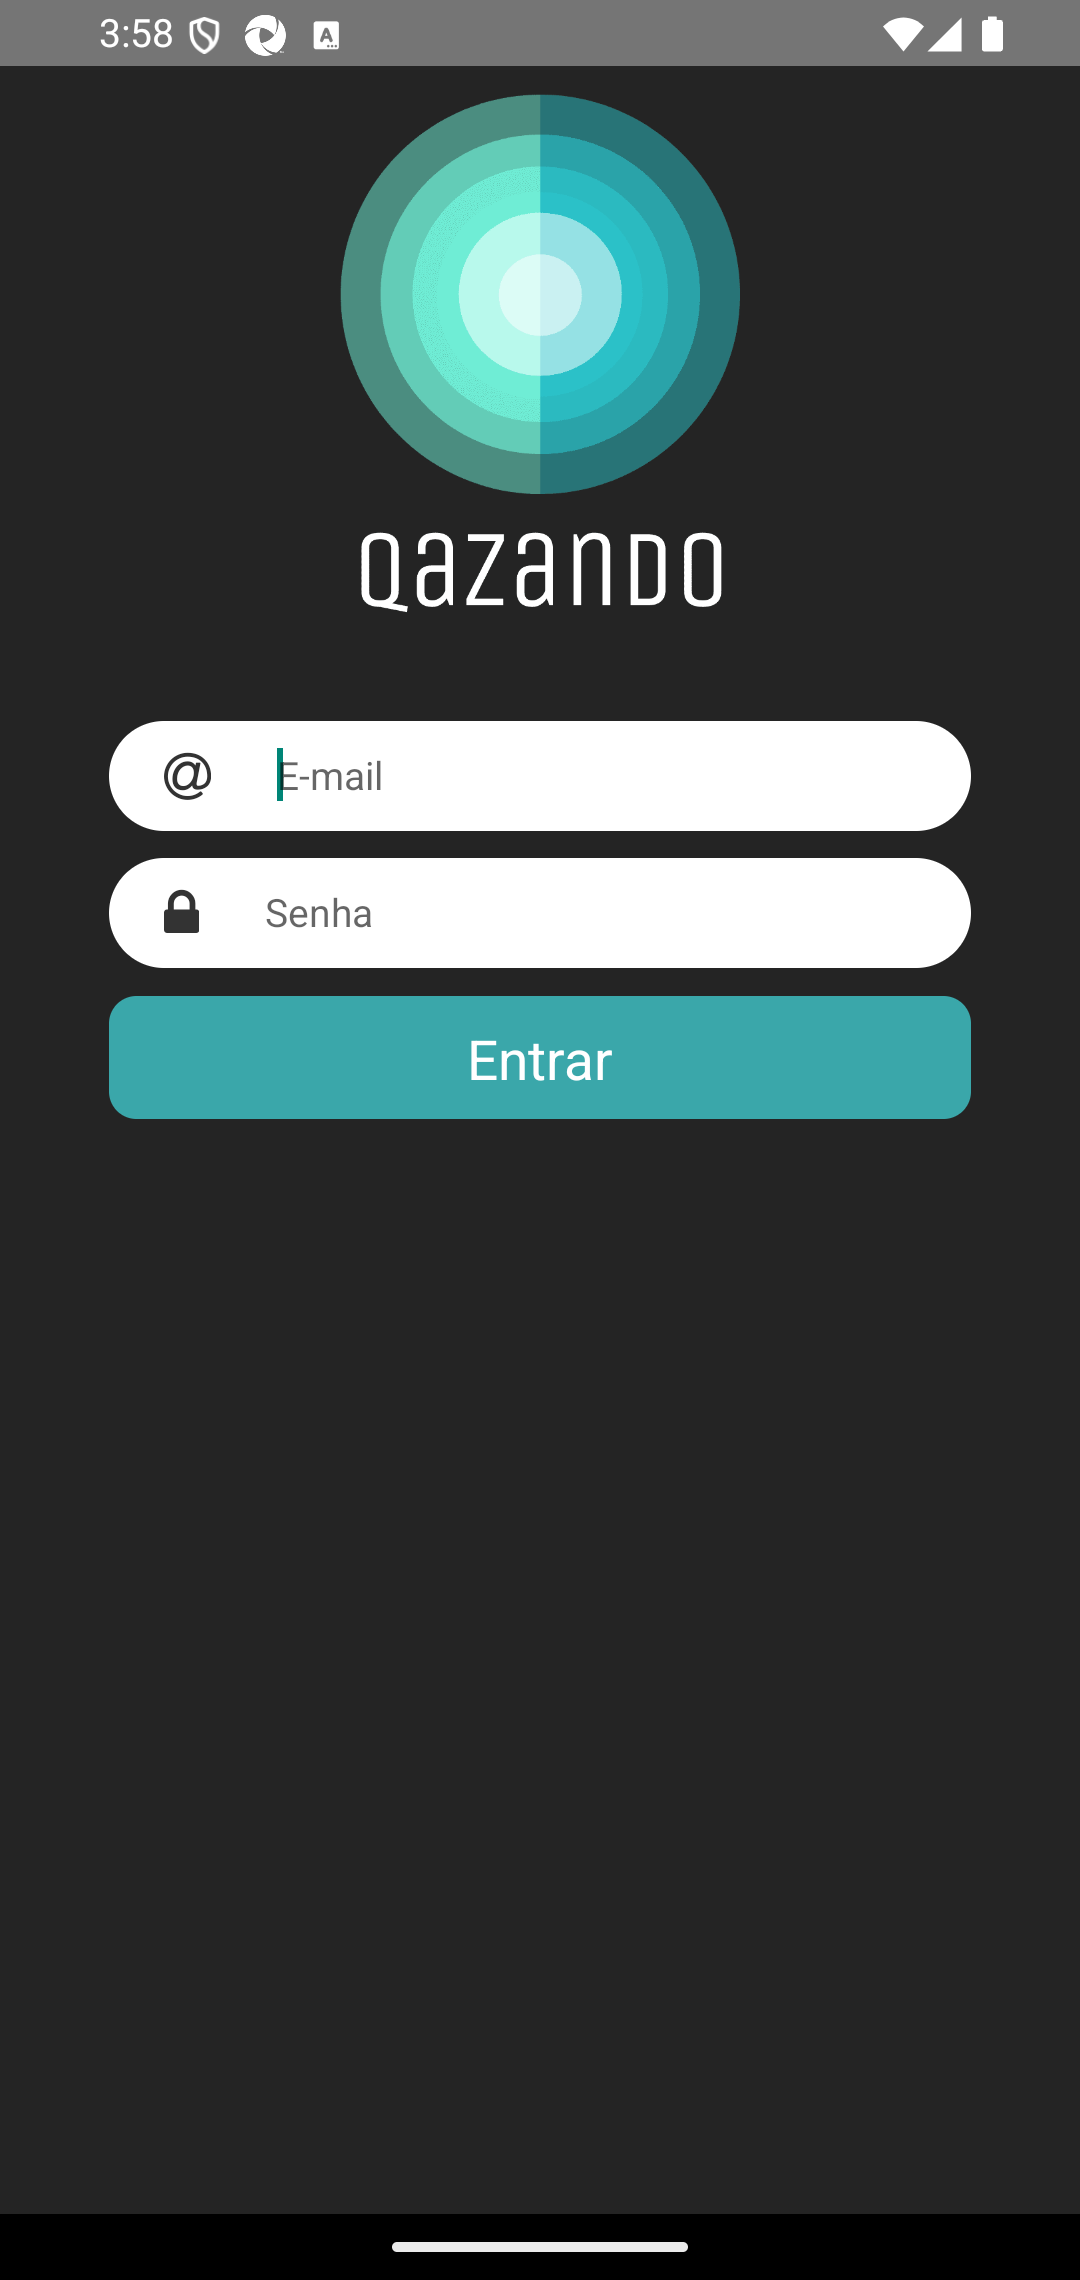
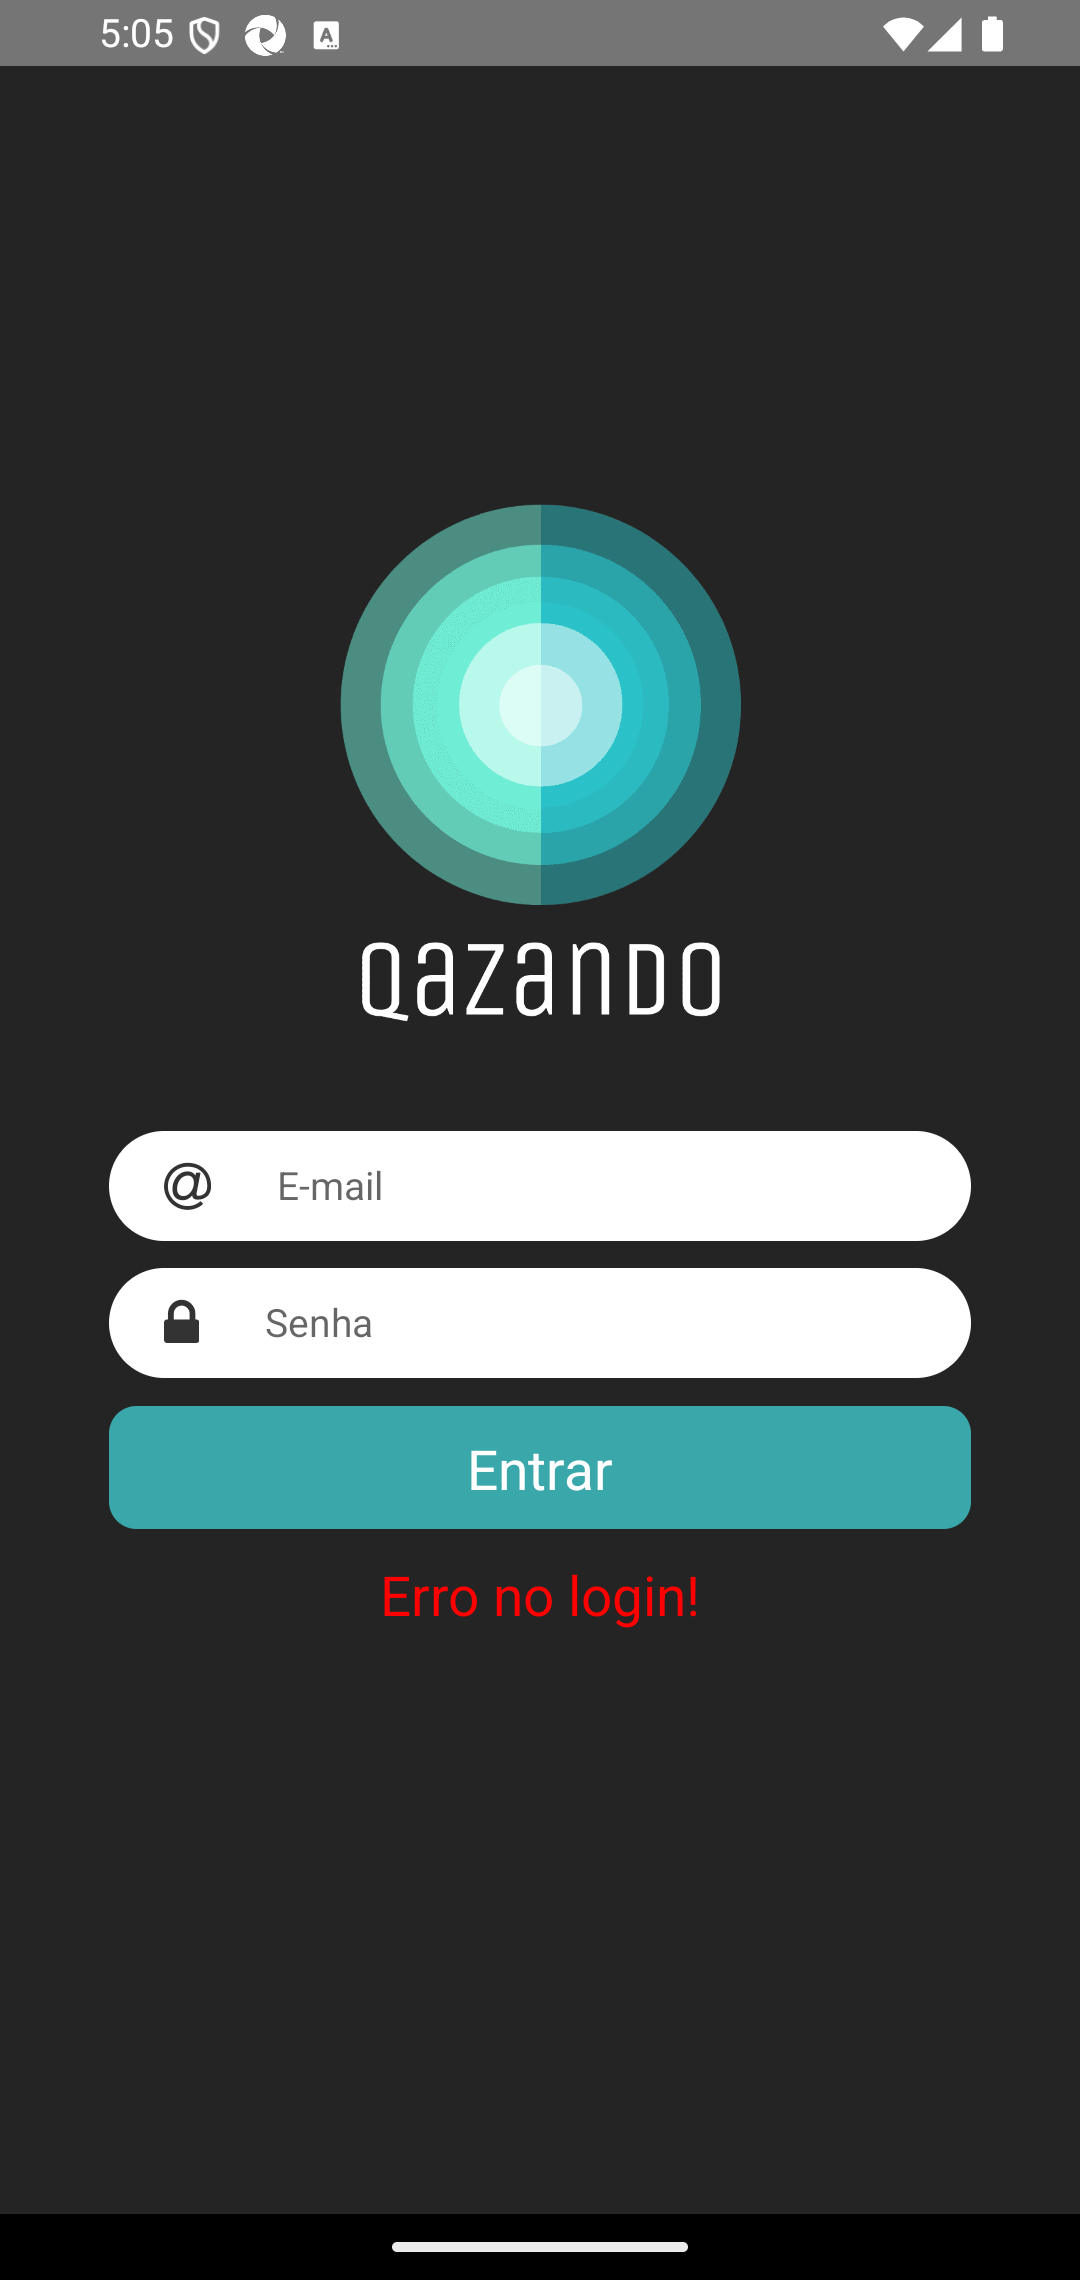
Page objects

diff --git a/codecept.conf.js b/codecept.conf.js
@@ -1,4 +1,7 @@
-const { setHeadlessWhen, setCommonPlugins } = require('@codeceptjs/configure');
+const {
+  setHeadlessWhen,
+  setCommonPlugins
+} = require('@codeceptjs/configure');
 
 setHeadlessWhen(process.env.HEADLESS);
 
@@ -15,24 +18,26 @@ exports.config = {
       port: 4723,
       path: '/',
       desiredCapabilities: {
-        'platformName':                process.env.PLATAFORM,
-        'appium:platformVersion':      process.env.VERSION,
-        'appium:deviceName':           process.env.DEVICE,
-        'appium:udid':                 process.env.UDID,
-        'appium:automationName':       process.env.AUTOMATION,
-        'appium:app':                  process.env.APP,
-        'appium:appPackage':           process.env.PLATAFORM == 'Android' ? process.env.PACKAGE : '',
-        'appium:appActivity':          process.env.PLATAFORM == 'Android' ? process.env.ACTIVITY : '',
-        'appium:bundleId':             process.env.PLATAFORM == 'iOS' ? process.env.BUNDLE : '',
-        'appium:noReset':              false,
-        'appium:fullReset':            false,
-        'appium:newCommandTimeout':    300,
+        'platformName': process.env.PLATAFORM,
+        'appium:platformVersion': process.env.VERSION,
+        'appium:deviceName': process.env.DEVICE,
+        'appium:udid': process.env.UDID,
+        'appium:automationName': process.env.AUTOMATION,
+        'appium:app': process.env.APP,
+        'appium:appPackage': process.env.PLATAFORM == 'Android' ? process.env.PACKAGE : '',
+        'appium:appActivity': process.env.PLATAFORM == 'Android' ? process.env.ACTIVITY : '',
+        'appium:bundleId': process.env.PLATAFORM == 'iOS' ? process.env.BUNDLE : '',
+        'appium:noReset': false,
+        'appium:fullReset': false,
+        'appium:newCommandTimeout': 300,
         'appium:autoGrantPermissions': true,
       }
     }
   },
   include: {
-    I: './steps_file.js'
+    I: './steps_file.js',
+
+    loginPages: "./pages/loginPages.js",
   },
   noGlobals: true,
   plugins: {},

diff --git a/tests/CT001 - login_test.js b/tests/CT001 - login_test.js
@@ -1,0 +1,31 @@
+Feature('CT001 - login_test');
+
+Scenario('Cenário 01 - Preenchimento correto de e-mail e senha deve realizar login com sucesso', ({ I, loginPages }) => {
+    
+    loginPages
+
+    // Validar login com sucesso
+    I.waitForElement('~codigo', 10);
+    I.seeElement('~codigo')
+});
+
+Scenario('Cenário 02 - Preenchimento de e-mail inexistente deve exibir mensagem de erro ', ({ I }) => {
+    
+    // Preencher campo e-mail
+    I.waitForElement('~email', 5);
+    I.tap('~email');
+    I.hideDeviceKeyboard();
+
+    // Preencher campo senha
+    I.waitForElement('~senha', 5);
+    I.tap('~senha');
+    I.type('123456');
+    I.hideDeviceKeyboard();
+
+    // Clicar botão Entrar
+    I.tap('~entrar');
+
+    // Validar login com sucesso
+    I.waitForElement('~lognFail', 10);
+    I.seeElement('~lognFail')
+});

diff --git a/pages/loginPages.js b/pages/loginPages.js
@@ -1,0 +1,34 @@
+/// <reference path='../steps.d.ts' />
+const { I } = inject();
+
+module.exports = {
+  
+  campos: {
+    email: '~email',
+    senha: '~senha'
+  },
+
+  botoes: {
+    entrar: '~entrar'
+  },
+
+  mensagens: {
+    erro: '~loginFail'
+  },
+
+  //-----------------------------------------
+
+  realizarLogin(email, senha) {
+    //I.waitForElement(this.campos.email, 5);
+    I.tap(this.campos.email);
+    I.type(email);
+    I.hideDeviceKeyboard();
+
+    //I.waitForElement(this.campos.senha, 5);
+    I.tap(this.campos.senha);
+    I.type(senha);
+    I.hideDeviceKeyboard();
+
+    I.tap(this.botoes.entrar);
+  }
+}

diff --git a/steps.d.ts b/steps.d.ts
@@ -1,5 +1,6 @@
 /// <reference types='codeceptjs' />
 type steps_file = typeof import('./steps_file.js').default;
+
 declare namespace CodeceptJS {
   interface SupportObject { I: I, current: any }
   interface Methods extends Appium {}
